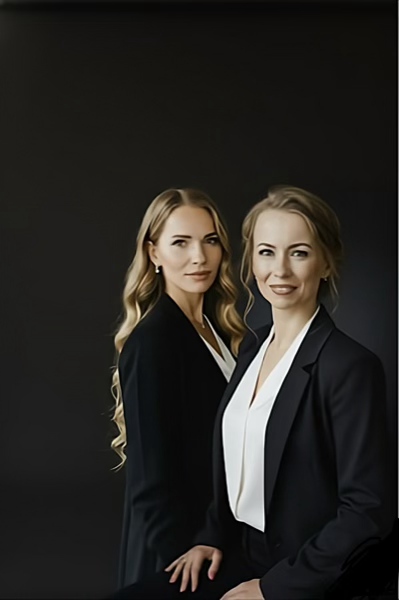
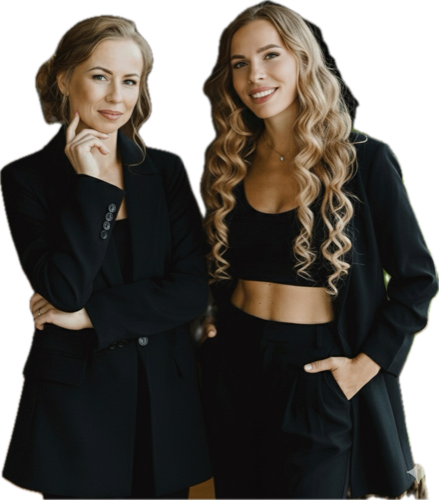
Обновил фото основателей - качественное 439x500px

diff --git a/src/app/page.tsx b/src/app/page.tsx
@@ -186,8 +186,8 @@ export default function Home() {
                 <Image
                   src="/founders.png"
                   alt="Татьяна Сысуева и Мария Лебедева - основатели T&M Agency"
-                  width={399}
-                  height={600}
+                  width={439}
+                  height={500}
                   className="w-full max-w-lg mx-auto h-auto"
                   style={{ background: 'transparent' }}
                   quality={95}
